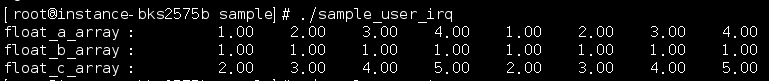
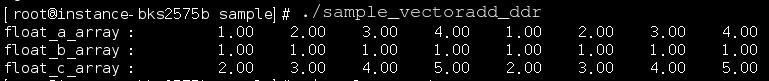
update doc

Changed region(s): [[0.3745, 0.0741, 0.7178, 0.2469], [0.5306, 0.2716, 0.5618, 0.2963], [0.4681, 0.2716, 0.4993, 0.2963]]

diff --git a/hdk/doc/说明-demo工程介绍.md b/hdk/doc/说明-demo工程介绍.md
@@ -5,12 +5,12 @@ testreg有两个基本功能，一个是定义了4个寄存器可供host从axi-l
 
 寄存器 | 位宽	 | 地址偏移 | R/W | 功能定义 
 ----|------|----|-----|-----
-test_reg1 | 32bit | 0x0 | RW | 测试寄存器，可通过工具包中的reg_read_32和reg_write_32读写。
-test_reg2 | 32bit | 0x4 | RW | 测试寄存器，可通过工具包中的reg_read_32和reg_write_32读写。
-test_reg3 | 32bit | 0x8 | R | 测试寄存器，数值为test_reg1和test_reg2两者相加的结果，可通过工具包中的reg_read_32读取。
-test_reg4 | 32bit | 0xC | R | 测试寄存器，数值为vio.probe_out0的输出，可通过工具包中的reg_read_32读取。
+test_reg1 | 32bit | 0x0 | RW | 测试寄存器，可通过工具包中的mmap_read和mmap_write读写。
+test_reg2 | 32bit | 0x4 | RW | 测试寄存器，可通过工具包中的mmap_read和mmap_write读写。
+test_reg3 | 32bit | 0x8 | R | 测试寄存器，数值为test_reg1和test_reg2两者相加的结果，可通过工具包中的mmap_read读取。
+test_reg4 | 32bit | 0xC | R | 测试寄存器，数值为vio.probe_out0的输出，可通过工具包中的mmap_read读取。
 
-*实际使用reg_read_32和reg_write_32时，访问的地址要在上述地址偏移的基础上加上65536*
+*实际使用mmap_read和mmap_write时，访问的path要试FPGA卡在系统中的具体设备号而定，可参考下面的使用例子。*
 
 testreg的第二个功能是将xdma的axi-dma请求转化成访问app-mig的请求，实现这个功能需要正确的配置工程的DDR模式。
 ```bash
@@ -31,21 +31,23 @@ testreg采用非IPI模式，usr_files/hdl中存储了工程的rtl文件，usr_fi
 
 ## 使用
 testreg工程的仿真、制作和配置步骤，可以参考[说明-进行FPGA云镜像开发的流程](./说明-进行FPGA云镜像开发的流程.md)
-配置完成后，可以执行reg_read_32和reg_write_32验证功能
+配置完成后，可以执行mmap_read和mmap_write验证功能。
 ```bash
 $ cd ~/sdk/linux_kernel_driver/sample/
-$ ./reg_read_32 0 65536
-read success, addr = 0000000000010000, value = 00000000
-$ ./reg_read_32 0 65540
-read success, addr = 0000000000010004, value = 00000000
-$ ./reg_read_32 0 65544
-read success, addr = 0000000000010008, value = 00000000
-$ ./reg_write_32 0 65536 100
-write success, addr = 0000000000010000, value = 00000100
-$ ./reg_read_32 0 65544
-read success, addr = 0000000000010008, value = 00000100
-$ ./reg_read_32 0 65548
-read success, addr = 000000000001000c, value = 11111111   //输出结果与当前vio.probe_out0相关，可在vivado中修改
+$ lspci | grep Xil
+0c:00.0 Serial controller: Xilinx Corporation Device 9038  //获取FPGA加速卡的bdf号，这里是0c:00.0，将用于下面的mmap_read和mmap_write执行参数。
+$ ./mmap_read /sys/bus/pci/devices/0000\:0c\:00.0/resource2 $((0x0))
+0
+$ ./mmap_read /sys/bus/pci/devices/0000\:0c\:00.0/resource2 $((0x4))
+0
+$ ./mmap_read /sys/bus/pci/devices/0000\:0c\:00.0/resource2 $((0x8))
+0
+$ ./mmap_write /sys/bus/pci/devices/0000\:0c\:00.0/resource2 $((0x0)) 100
+100
+$ ./mmap_read /sys/bus/pci/devices/0000\:0c\:00.0/resource2 $((0x8))
+100
+$ ./mmap_read /sys/bus/pci/devices/0000\:0c\:00.0/resource2 $((0x0))
+11111111   //输出结果与当前vio.probe_out0相关，可在vivado中修改
 ```
 
 # 2.vectoradd_ram demo工程

diff --git a/hdk/doc/stepbystep-制作并调试FPGAdemo逻辑.md b/hdk/doc/stepbystep-制作并调试FPGAdemo逻辑.md
@@ -89,7 +89,7 @@ $ ./bce_fpga_mgmt_tool LoadPartialLogic -S 0 -P ../../hdk/baidu_hw_design_toolki
 
 # 4.编译&执行测试程序
 
-进入sample目录，执行make。如果编译成功，当前目录下生成sample_user_irq等可执行文件，如下图所示。
+进入sample目录，执行make。如果编译成功，当前目录下生成sample_vectoradd_ddr等可执行文件，如下图所示。
 
 ```bash
 $ cd ~/sdk/linux_kernel_driver/sample
@@ -98,14 +98,14 @@ $ make
 
 <img src="./img/stepbystep/img04.png">  
 
-执行sudo ./sample_user_irq，输出如下结果，PE正确地执行了浮点向量加功能。sample_user_irq使用中断方式检查命令结果是否完成。
+执行sudo ./sample_vectoradd_ddr，输出如下结果，PE正确地执行了浮点向量加功能。sample_vectoradd_ddr使用中断方式检查命令结果是否完成。
 
 ```bash
-sudo ./sample_user_irq
+sudo ./sample_vectoradd_ddr
 ```
 
 <img src="./img/stepbystep/img05.png">  
-
+s
 # 5.调试FPGA镜像
 
 
